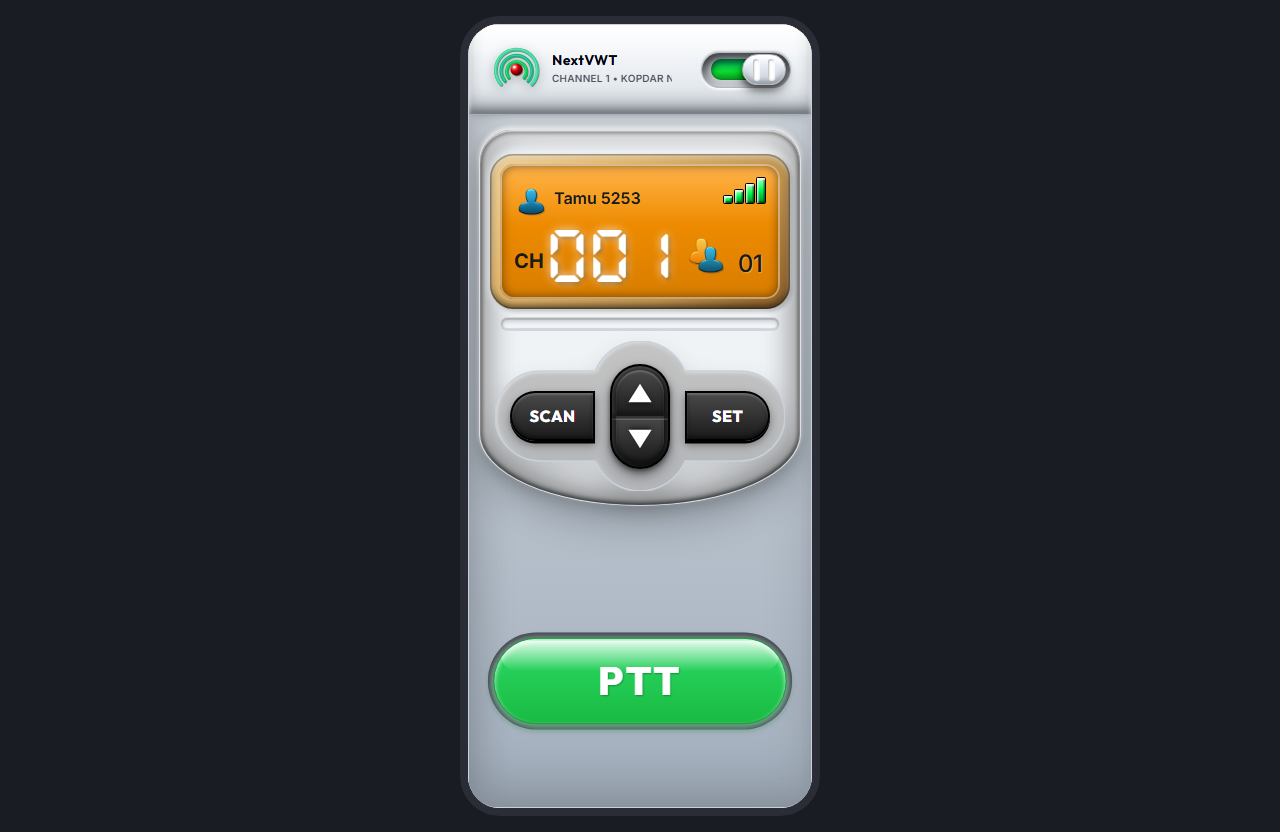
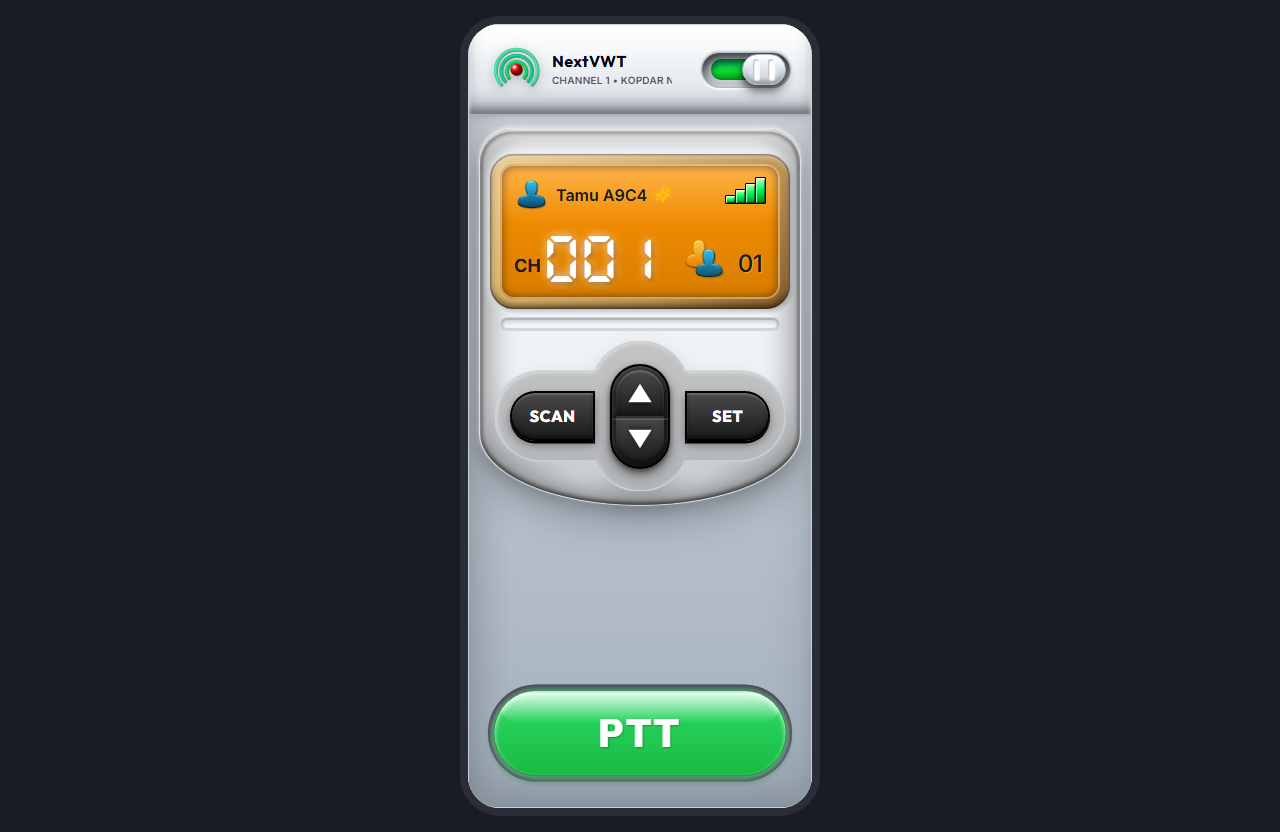
test(e2e): update snapshots and stabilize modulation test

diff --git a/e2e/modulation-simulation.spec.ts b/e2e/modulation-simulation.spec.ts
@@ -73,9 +73,12 @@ test.describe('User Modulation Activity Simulation', () => {
     await page.waitForTimeout(1000); // Wait for active modulation simulation
 
     // 4. Assert active modulation is happening (width is greater than 0)
-    const activeWidth = await progressBar.evaluate((el) => el.style.width);
-    expect(activeWidth).not.toBe('0%');
-    expect(activeWidth).not.toBe('');
+    await expect.poll(async () => {
+      return await progressBar.evaluate((el) => el.style.width);
+    }, {
+      message: 'Progress bar width should be greater than 0% during active modulation',
+      timeout: 5000,
+    }).not.toBe('0%');
 
     // 5. Release mouse and return to standby
     await page.mouse.up();